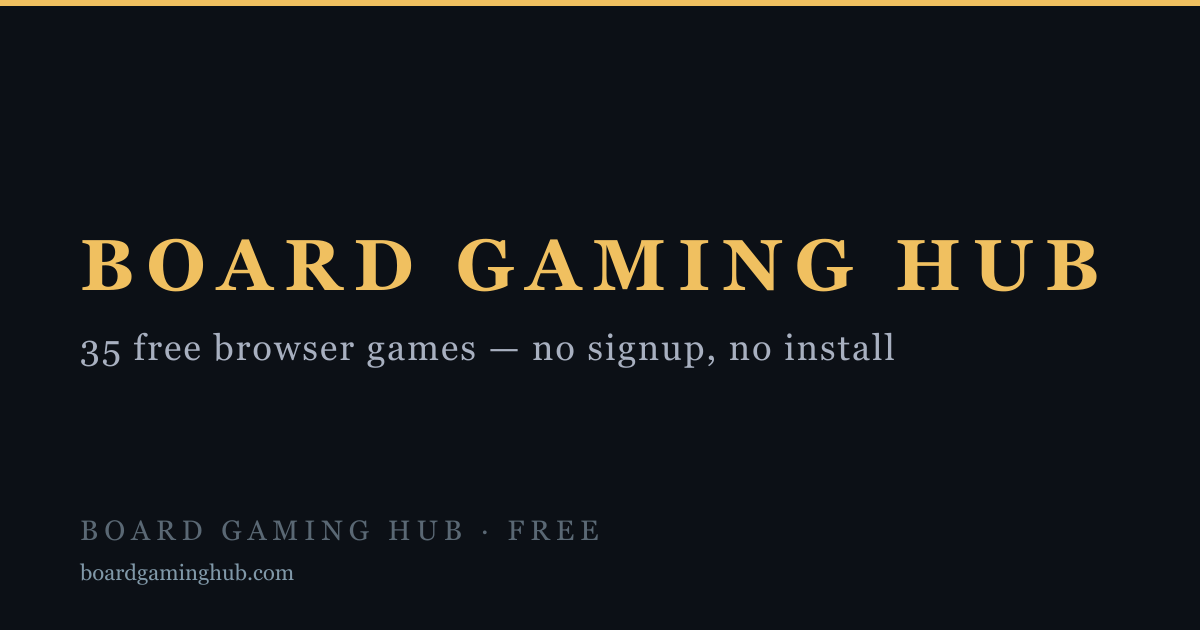
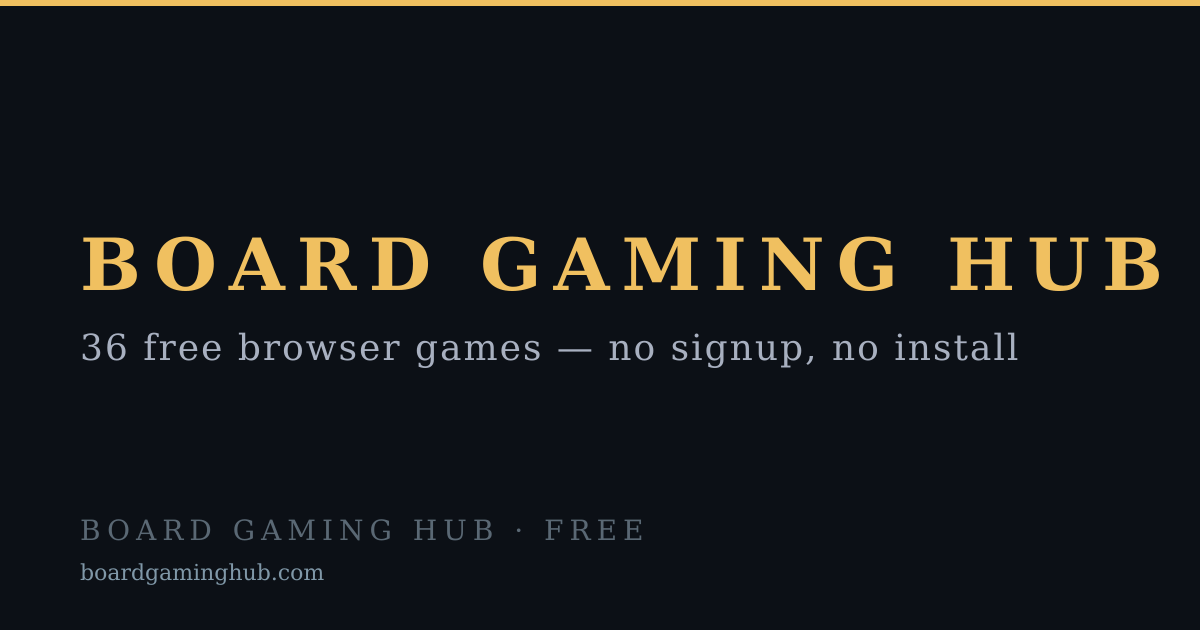
Remove the friction from the one step that is not mine to do
scripts/make-firetv-keystore.sh creates the Fire TV release key on the owner's
own machine and prints the four secret values plus gh secret set one-liners. It
refuses to overwrite an existing keystore, and *.jks / *.keystore / *.base64.txt
are now gitignored — verified with git check-ignore — because a signing key that
gets committed is as unrecoverable as one that gets lost.

Deliberately not automated: the key is generated by the owner and kept by the
owner. GitHub secrets are write-only, so a key created inside CI would exist
nowhere the owner could ever read it back, and the first time they needed it for
anything else it would simply be gone.

Separately, the home OG card — the image every social share of the homepage
renders — claimed "35 free browser games" against a 36-game catalogue. The count
now derives from games.json so it cannot drift again. Only og/home.* is
committed: regenerating rewrote all 37 PNGs, but home.svg was the only one whose
content changed, so the rest was re-encoding churn and is reverted.

Claude-Session: https://claude.ai/code/session_016a9VGsRMY8wsFYE1wEpZ7u

Changed region(s): [[0.0617, 0.3619, 0.9867, 0.4825], [0.0617, 0.8143, 0.555, 0.9349], [0.0617, 0.5127, 0.8633, 0.6032]]

diff --git a/scripts/generate-og-images.js b/scripts/generate-og-images.js
@@ -6,8 +6,14 @@ const path = require('path');
 const ROOT = path.resolve(__dirname, '..');
 const OUT = path.join(ROOT, 'og');
 
+// Derived, not typed: this number appears on the card every share of the
+// homepage renders, and it had already drifted one behind games.json.
+const GAME_COUNT = JSON.parse(
+  fs.readFileSync(path.join(ROOT, 'games.json'), 'utf8')
+).games.length;
+
 const CARDS = [
-  { file: 'home', title: 'BOARD GAMING HUB', sub: '35 free browser games — no signup, no install', accent: '#f0c060', bg: '#0c1016' },
+  { file: 'home', title: 'BOARD GAMING HUB', sub: `${GAME_COUNT} free browser games — no signup, no install`, accent: '#f0c060', bg: '#0c1016' },
   { file: 'wordform', title: 'WORDFORM', sub: 'Daily 5-letter word puzzle', accent: '#d4a050', bg: '#1a1410' },
   { file: 'chess', title: 'CHESS', sub: 'Free online — vs AI or 2-player', accent: '#f0d89c', bg: '#1a1410' },
   { file: 'sudoku', title: 'SUDOKU', sub: 'Easy to expert — no signup', accent: '#94c3e8', bg: '#0c1016' },

diff --git a/FIRETV.md b/FIRETV.md
@@ -85,8 +85,17 @@ anyone with adb access to the device can attach to the process. CI therefore
 builds and verifies it but **refuses to publish it** to the `firetv-v1`
 release, and the Amazon Appstore will not take it either.
 
-Create a keystore once — and keep it safe, because losing it means you can
-never update the app in place:
+Create a keystore once — on your own machine, so the key stays with you — and
+keep it safe, because losing it means you can never update the app in place:
+
+```sh
+bash scripts/make-firetv-keystore.sh
+```
+
+That generates the keystore, writes its base64, prints the exact secret names
+(with `gh secret set` one-liners), and refuses to clobber an existing key.
+`*.jks`, `*.keystore` and `*.base64.txt` are gitignored so a signing key cannot
+be committed by accident. By hand it is:
 
 ```sh
 keytool -genkeypair -v \
@@ -95,7 +104,7 @@ keytool -genkeypair -v \
 base64 -w0 bghtv-release.jks   # the value for BGHTV_KEYSTORE_BASE64
 ```
 
-Then set four repository secrets (Settings → Secrets and variables → Actions):
+Either way, set four repository secrets (Settings → Secrets and variables → Actions):
 
 | Secret | Value |
 |---|---|

diff --git a/store/firetv/SUBMIT.md b/store/firetv/SUBMIT.md
@@ -9,8 +9,10 @@ The APK currently on the `firetv-v1` release is debug-signed and carries
 `android:debuggable`. Amazon will not take it, and it should not be distributed
 publicly in any case. Fix it once:
 
-1. Create a keystore and set the four `BGHTV_*` repository secrets — the exact
-   `keytool` command is in [`../../FIRETV.md`](../../FIRETV.md#signing--required-before-public-distribution).
+1. Run `bash scripts/make-firetv-keystore.sh` on your own machine. It creates
+   the key, prints the four `BGHTV_*` secret values and the `gh secret set`
+   commands, and will not overwrite an existing keystore. Details in
+   [`../../FIRETV.md`](../../FIRETV.md#signing--required-before-public-distribution).
 2. Push to `main` (or run **Actions → firetv-apk → Run workflow** with
    *publish* ticked).
 3. CI builds `assembleRelease`, the publish guard passes, and `firetv-v1` gets
